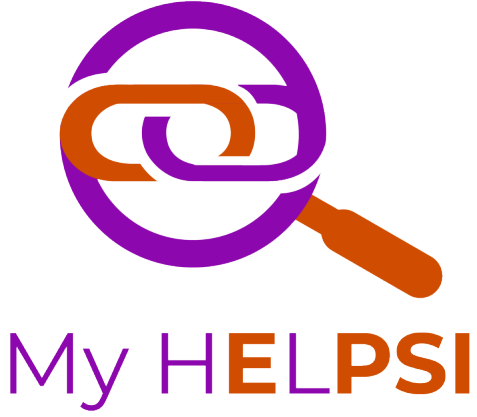
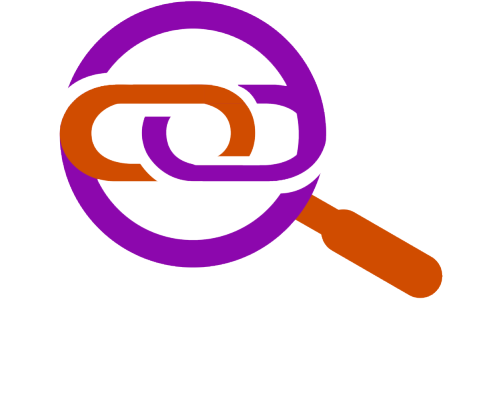
Page d'accueil

Changed region(s): [[0.3229, 0.7794, 0.9979, 0.9664], [0.0, 0.7794, 0.2642, 0.9976]]

diff --git a/css/accueil.css b/css/accueil.css
@@ -9,8 +9,12 @@
     opacity:1
   }
 }
-
-html, body, div, span, applet, object, iframe, h1, h2, h3, h4, h5, h6, p, blockquote, pre, a, abbr, acronym, address, big, cite, code, del, dfn, em, img, ins, kbd, q, s, samp, small, strike, strong, sub, sup, tt, var, b, u, i, center, dl, dt, dd, ol, ul, li, fieldset, form, label, legend, table, caption, tbody, tfoot, thead, tr, th, td, article, aside, canvas, details, embed, figure, figcaption, footer, header, hgroup, menu, nav, output, ruby, section, summary, time, mark, audio, video
+#logo{
+  width: 60%;
+  height: 40%;
+  margin-top: -14em;
+}
+html, body, div, span, applet, object, iframe, h2, h3, h4, h5, h6, p, blockquote, pre, a, abbr, acronym, address, big, cite, code, del, dfn, em, img, ins, kbd, q, s, samp, small, strike, strong, sub, sup, tt, var, b, u, i, center, dl, dt, dd, ol, ul, li, fieldset, form, label, legend, table, caption, tbody, tfoot, thead, tr, th, td, article, aside, canvas, details, embed, figure, figcaption, footer, header, hgroup, menu, nav, output, ruby, section, summary, time, mark, audio, video
 {
 	margin: 0;
 	padding: 0;
@@ -1761,7 +1765,7 @@ button.style3:hover,
 
 #header footer {
 	position: absolute;
-	bottom: 9em;
+	bottom: 15em;
 	margin: 0;
 	width: 100%;
 }
@@ -1770,20 +1774,20 @@ button.style3:hover,
 	content: '';
 	display: block;
 	position: absolute;
-	bottom: -9em;
+	bottom: -20em;
 	left: 50%;
-	height: 9em;
+	height: 20em;
 	border-left: solid 1px #fff;
 }
 
 #header footer:before {
 	content: '';
 	display: block;
-	width: 90px;
+	width: 170px;
 	height: 66px;
 	position: absolute;
 	left: 50%;
-	bottom: -4.5em;
+	bottom: -7.5em;
 	margin-left: -45px;
 	margin-bottom: -33px;
 	background: url("../images/index/arrow.svg") no-repeat;

diff --git a/accueil.php b/accueil.php
@@ -21,7 +21,7 @@ $(document).ready(function() {
 	<!-- Header -->
 	<section id="header">
 		<header>
-			<h1>My HELPSI</h1>
+			<img id= "logo" src="images/MYHELPSI.png" alt="Logo du site"/>
 			<p>By EPSI Lyon</p>
 		</header>
 		<footer>
@@ -65,6 +65,3 @@ $(document).ready(function() {
 	<?php include('footer.php'); ?>
 
 </div>
-
-
-
